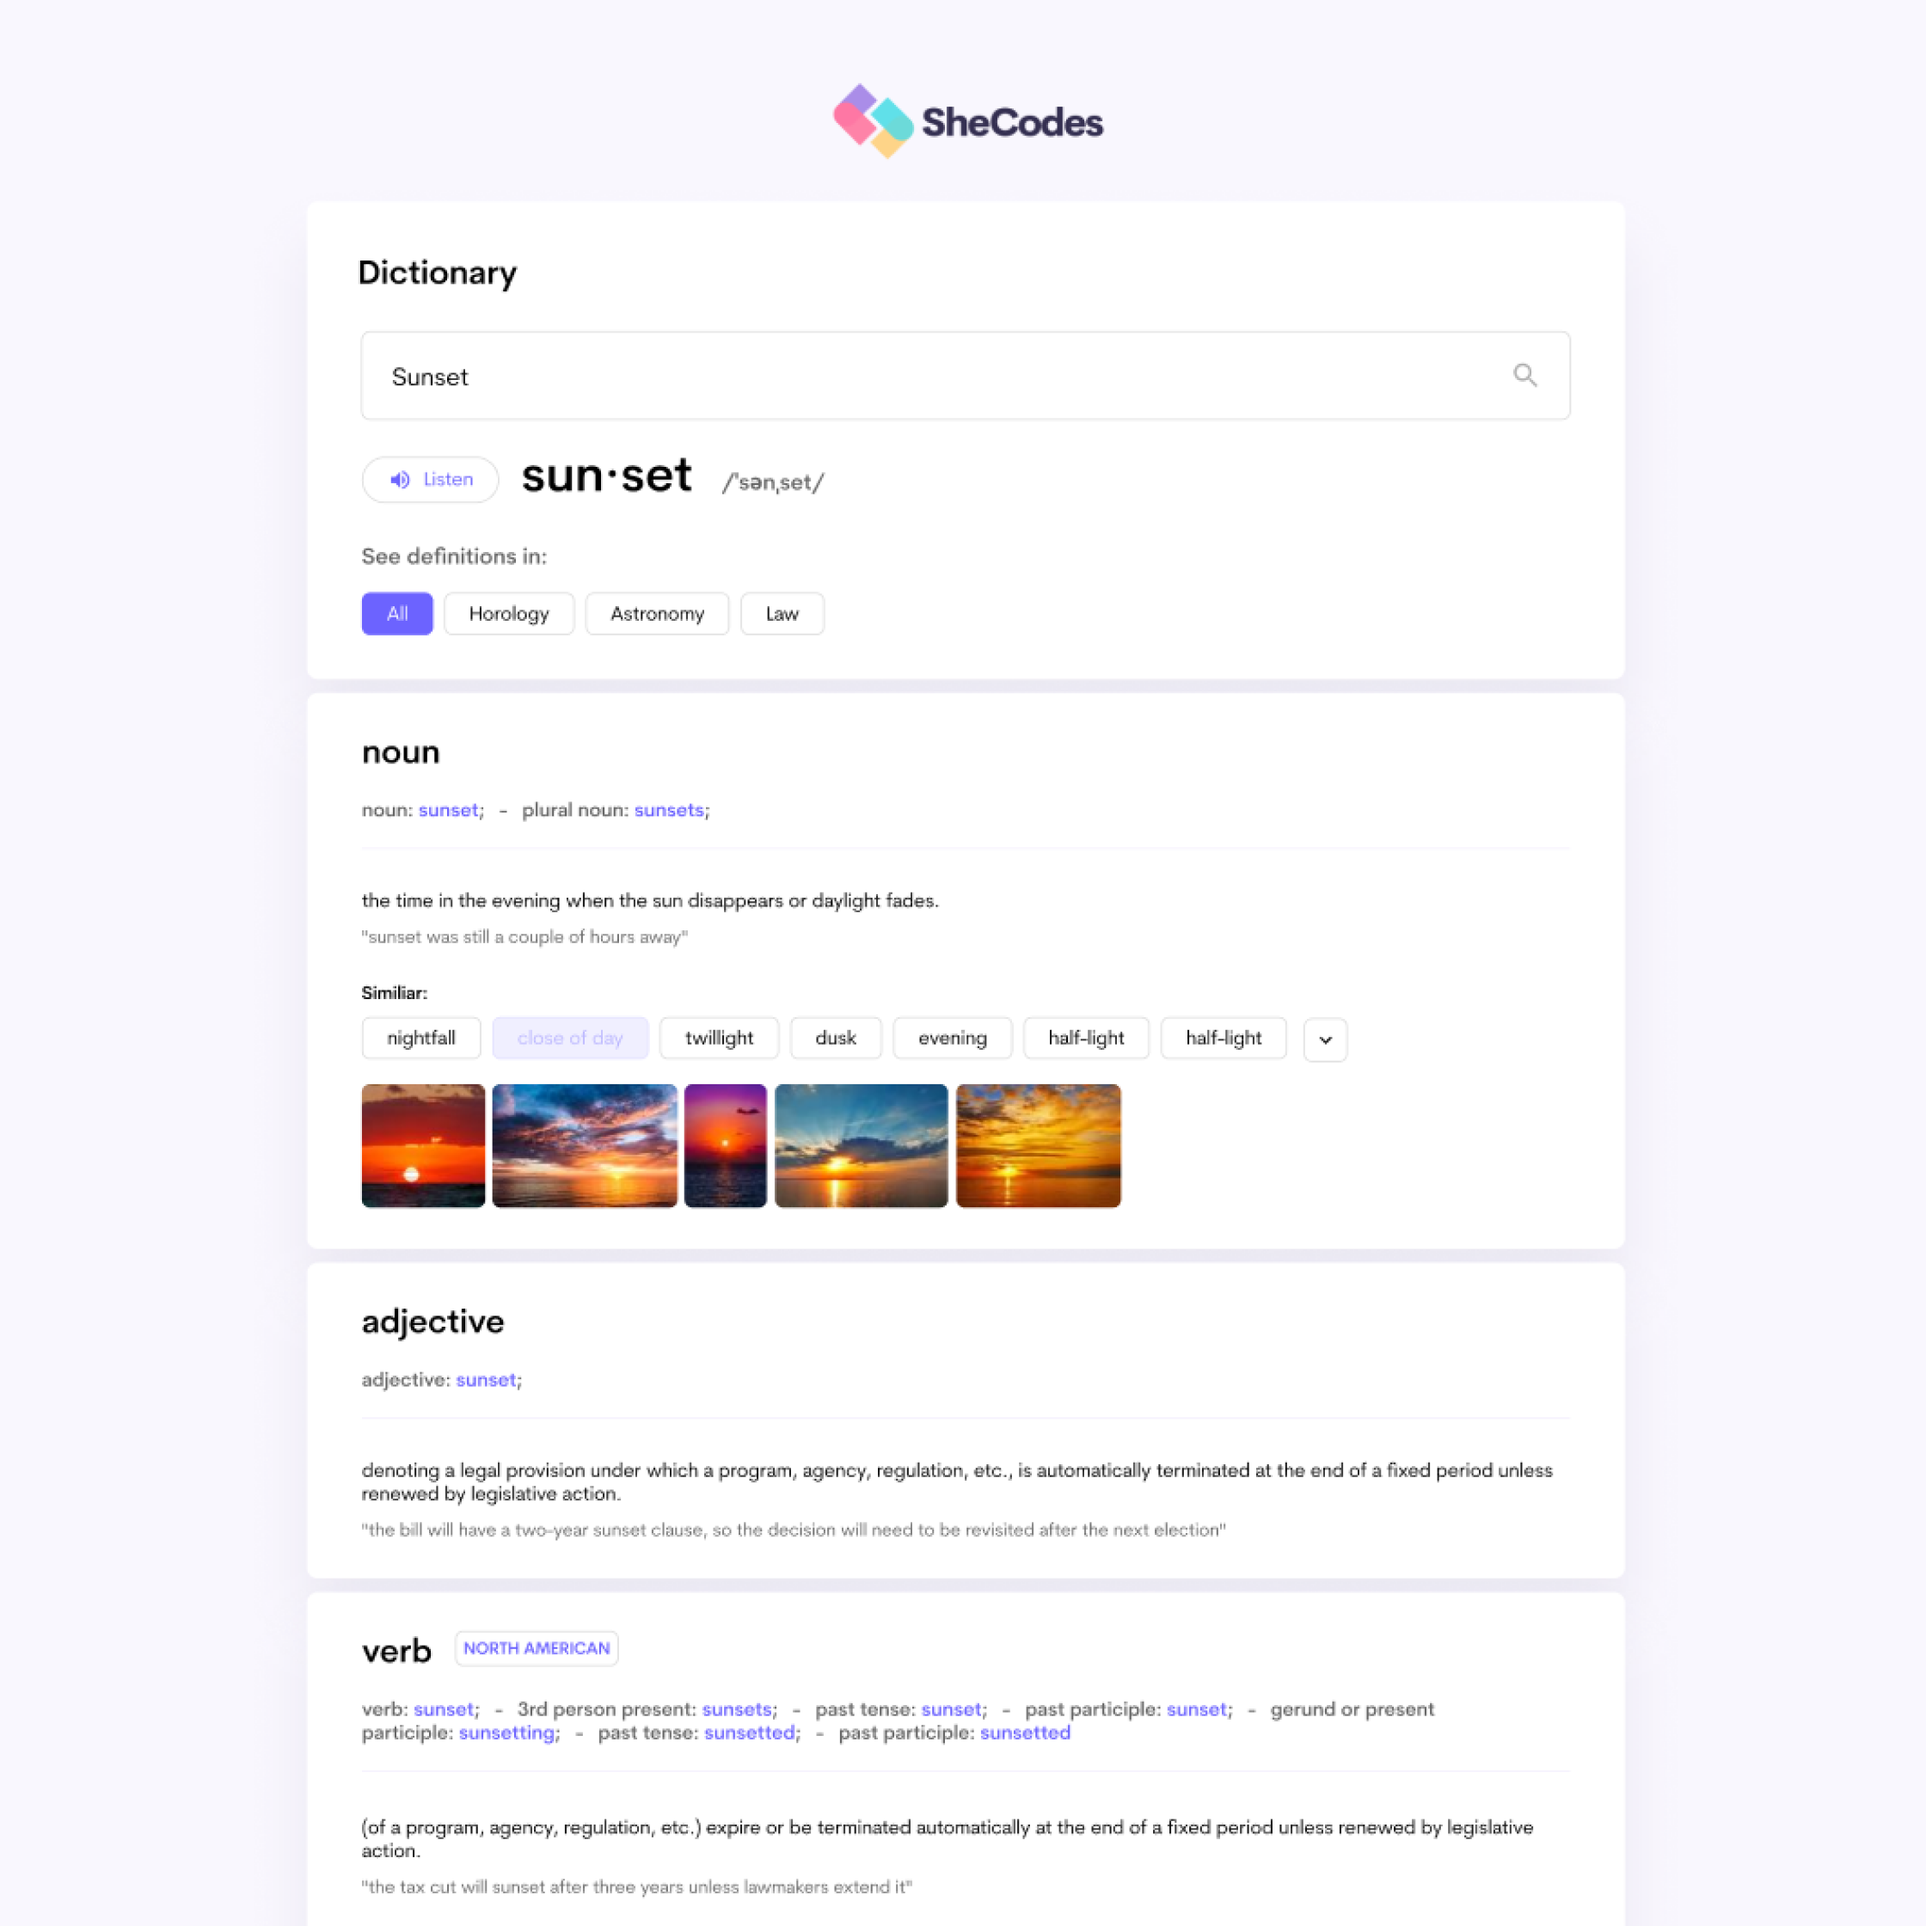
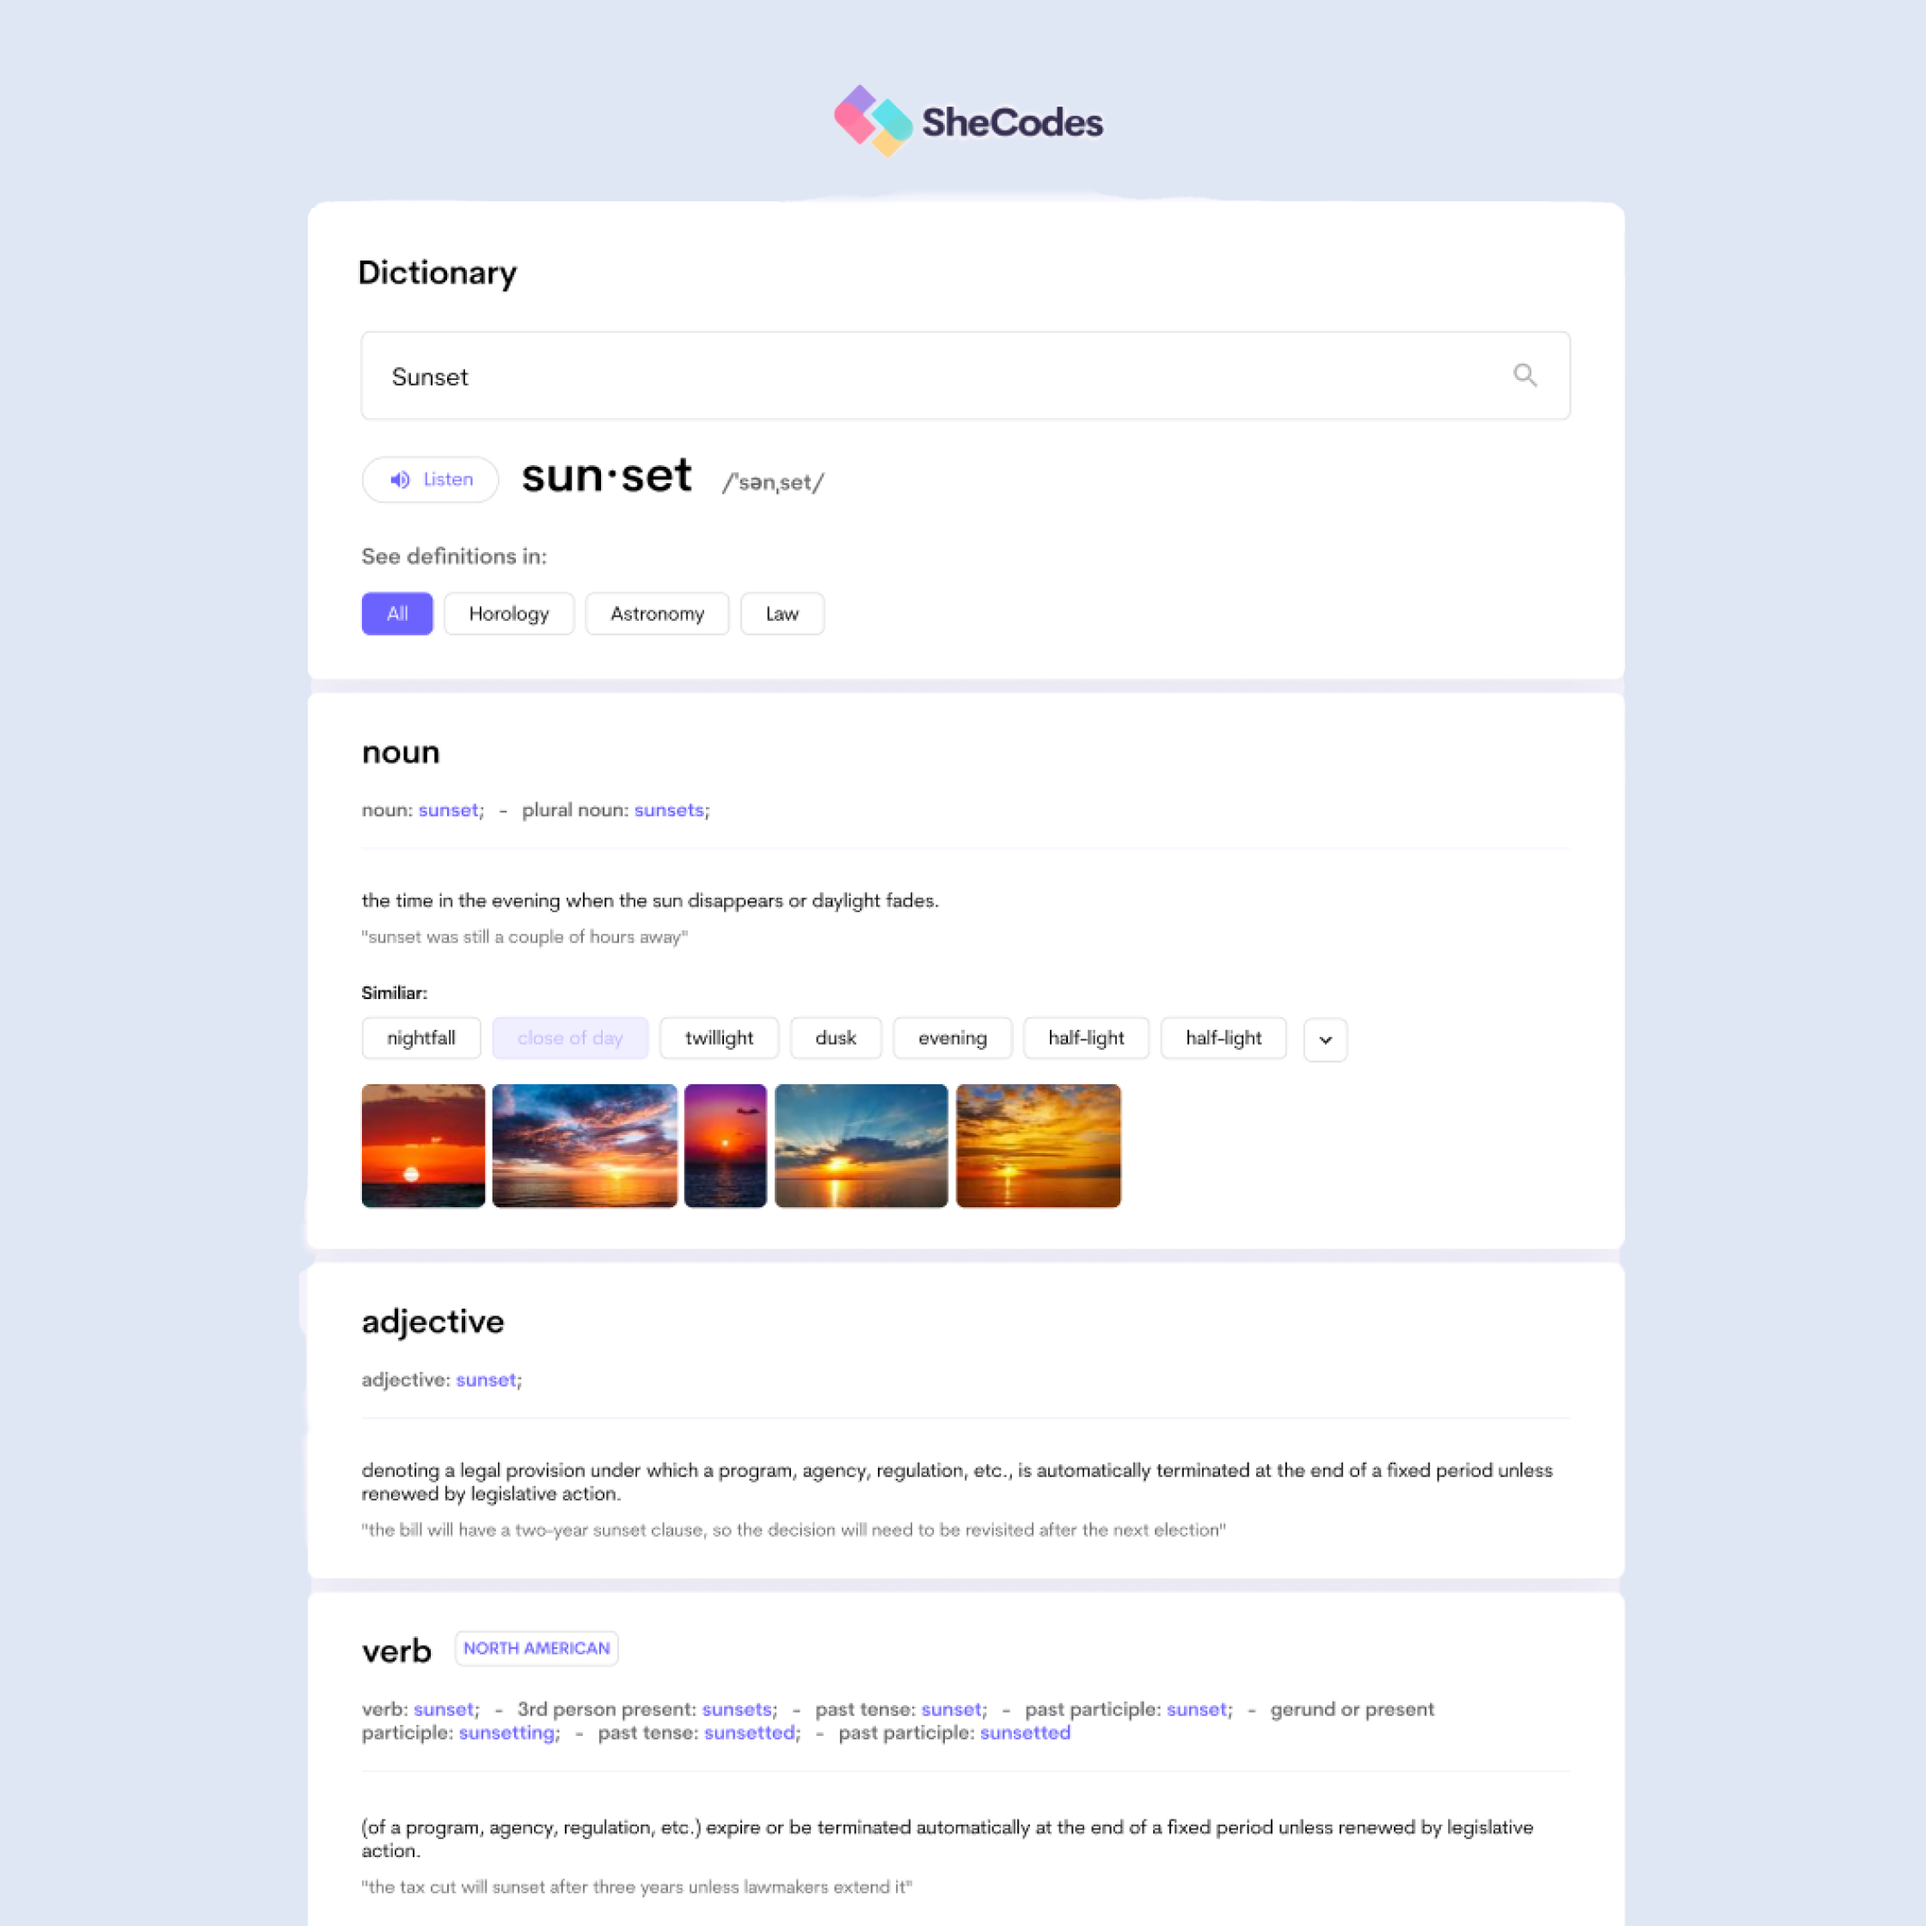
added about page

diff --git a/about.html b/about.html
@@ -14,7 +14,7 @@
      <title>Portfolio</title>
 </head>
 <body>
-   <nav class="navbar navbar-expand-lg bg-color fixed-top">
+    <nav class="navbar navbar-expand-lg bg-color fixed-top">
       <div class="container-fluid">
         <a class="navbar-brand ms-4 light" href="index.html" title="Homepage">Julia Turok</a>
         <button
@@ -35,7 +35,6 @@
                 >Home</a
               >
             </li>
-             </li>
              <li class="nav-item">
               <a class="nav-link light" href="/about.html" title="Section about me">About me</a>
             </li>
@@ -49,45 +48,16 @@
         </div>
       </div>
     </nav>
-<div class="hero">
-    <p>Hi, I am</p>
-    <h1>Julia Turok</h1>
-    <h2 class="mb-5">Front-end Developer, based in Ukraine.</h2>
-    <div> <a href="#" class="btn button">Get Started</a> </div>
-    </div>
-  <section id="my-work">
-    <p class="text-center m-5 color">My projects you may be interested in</p>
-    <div class="container">
-      <div class="row mb-5">
-        <div class="col d-none d-lg-block">
-    <img src="/images/My radio app.png" class="img-fluid" alt="yogurt project"></div>
-    <div class="col project">
-    <h3>Yogurt Project</h3>
-    <p class="text text-muted-70 color" >Far far away, behind the word mountains, far from the countries Vokalia and Consonantia, there live the blind texts. Separated they live in Bookmarksgrove right at the coast of the Semantics, a large language ocean. A small river named Duden flows by</p>
-    <a href="#" class="btn button-project">View detail project</a></div></div></div>
-    <div class="container">
-      <div class="row mb-5">
-    <div class="col project-weather-app">
-    <h3>Weather App</h3>
-    <p class="text text-muted-70 color" >Far far away, behind the word mountains, far from the countries Vokalia and Consonantia, there live the blind texts. Separated they live in Bookmarksgrove right at the coast of the Semantics, a large language ocean. A small river named Duden flows by</p>
-    <a href="#" class="btn button-project">View detail project</a></div>
-  <div class="col d-none d-lg-block">
-    <img src="/images/My weather app.png" class="img-fluid" alt="yogurt project"></div></div></div>
-    <div class="container">
-      <div class="row">
-        <div class="col d-none d-lg-block">
-    <img src="/images/dictionary.png" class="img-fluid" alt="yogurt project"></div>
-    <div class="col project">
-    <h3>Dictionary App</h3>
-    <p class="text text-muted-70 color" >Far far away, behind the word mountains, far from the countries Vokalia and Consonantia, there live the blind texts. Separated they live in Bookmarksgrove right at the coast of the Semantics, a large language ocean. A small river named Duden flows by</p>
-    <a href="#" class="btn button-project">View detail project</a></div></div></div>
-    </section>
-    <footer>
+    <div class="container about-section"><div class="row"><div class="col-lg-6"><h1>Hi, I am Julia Turok</h1>
+    <h2>Frontend Developer, based in Ukraine.</h2>
+<p>For anyone who wants to start learning code, this workshop is very interesting. You will be challenged  with different exercises, and everything is well explained, homework and deadlines are good for keep focus</p>
+<div class="btn button">View all projects</div></div><div class="col-lg-6"><img class="portfolio-photo" src="./images/portfoliophoto.png" alt="portfolio photo"></div></div></div>
+  <footer  class="about-footer">
        <div id="contact" class="container box">
       <div class="row">
         <div class="col-md-7 ">
           <h3 class="box-h3">Work Inquiry</h3>
-          <p class="text-muted-70 margin-p">Let’s work  together and i’ll help you by all my best</p> 
+          <p class="text-muted-70 margin-p">Let’s work  together and I’ll help you by all my best</p> 
     </div>
     <div class="col-md-5 button-display">
     <a href="#mail" class="btn button margin-t">Let`s talk here</a></div></div></div>

diff --git a/styles/styles.css b/styles/styles.css
@@ -1,15 +1,17 @@
 :root {
-  --primary-color: #6c63ff;
+  --primary-color: #647eb4;
   --heading-font-family: "Poppins", sans-serif;
   --secondary-font-family: "Playfair Display", serif;
-  --secondary-color: #f9f7fe;
+  --secondary-color:  #dfe6f4;
 }
 h1 {
   font-family: var(--secondary-font-family);
   font-weight: bold;
   font-size: 96px;
   line-height: 127.97px;
+   color: var(--primary-color);
 }
+
 .hero {
   font-family: var(--heading-font-family);
   font-weight: normal;
@@ -23,13 +25,41 @@ h2 {
   font-size: 24px;
   font-weight: 400;
   line-height: 36px;
-  color: #272142;
+  color: var(--primary-color);
+}
+.color{
+   color: var(--primary-color);
+}
+.about-box{
+  margin: 0 auto;
+}
+.about-section{
+ padding-top: 2.850rem;
+  padding-left: 7.375rem;
+}
+.about-section h1{
+  font-size: 64px;
+  margin-top: 178px;
+  color: var(--primary-color);
+}
+.about-section h2{
+  font-size:18px;
+  font-weight: bold;
+   color: #425e95;
+}
+.about-section p{
+  font-size: 16px;
+  line-height: 30px;
+  color: var(--primary-color);
+}
+.about-section .button{
+  margin-top: 1.5rem;
 }
 .hero p {
   font-weight: 700;
   font-size: 54px;
   line-height: 36px;
-  color: #272142;
+  color: var(--primary-color);
 }
 .button {
   background: var(--primary-color);
@@ -38,9 +68,10 @@ h2 {
   font-size: 18px;
   border-radius: 4px;
   line-height: 27px;
+
 }
 .button:hover {
-  background: #6058fa;
+  background:   #5b77b6;;
   padding: 18px 30px;
   color: white;
   font-size: 18px;
@@ -55,6 +86,7 @@ h3 {
   font-size: 64px;
   font-weight: bold;
   line-height: 85.31px;
+   color: var(--primary-color);
 }
 .text {
   line-height: 30px;
@@ -66,18 +98,21 @@ h3 {
 }
 
 .button-project {
-  color: #6c63ff;
-  border: solid #6c63ff;
+  color: var(--primary-color);
+  border: solid var(--primary-color);
   padding: 18px 25px;
   margin-top: 2.75rem;
 }
 .button-project:hover {
-  color: #6c63ff;
-  border: solid #6c63ff;
+  color: var(--primary-color);
+  border: solid var(--primary-color);
   padding: 18px 25px;
 }
 .project {
   margin-top: 8.0625rem;
+}
+.project-weather-app {
+  margin-top: 4rem;
 }
 .box-h3{
   font-size: 48px;
@@ -85,29 +120,35 @@ h3 {
   padding-top: 28px;
   padding-bottom: 13px;
   margin-bottom: 0;
+
+  
 }
 .margin-p{
   margin-left: 119px;
  margin-bottom: 42px;
  font-size: 18px;
+  color: var(--primary-color);
+ 
 }
 .margin-t{
  margin-top: 71px;
+ margin-left: 9.7rem;
 }
 .box{
   background: var(--secondary-color);
-  margin-top: 8.25rem;
-  box-sizing: border-box;
-  margin-bottom: 92px;
+  width: 68rem;
+    margin: 0 auto;
+    margin-top: 12.75rem;
+    margin-bottom: 92px;
   border-radius: 10px;
-  width: 72.5rem;
-  margin-left: 67px;
+ 
 }
 .mail-link{
   text-decoration: none;
   font-size: 24px;
   color: black;
   font-family: var(--heading-font-family);
+   color: var(--primary-color);
 }
 .network{
   width: 40px;
@@ -121,7 +162,28 @@ h3 {
   margin-bottom: 7.625rem;
 }
 .bg-color{
-  background: var(--secondary-color);
+
+background: #486295;
+
+}
+.light{
+  color: #f9f7fe;
+}
+.light:hover{
+  color: #eeebf6;
+}
+.portfolio-photo{
+  width: 281px;
+  height: 420px;
+  margin-top: 8.25rem;
+  border-radius: 4px;
+  margin-left: 12rem;
+}
+.about-footer .box{
+  width: 68rem;
+  margin: 0 auto;
+  margin-top: 12.75rem;
+    margin-bottom: 92px;
 }
 @media (max-width: 960px) {
   .project {
